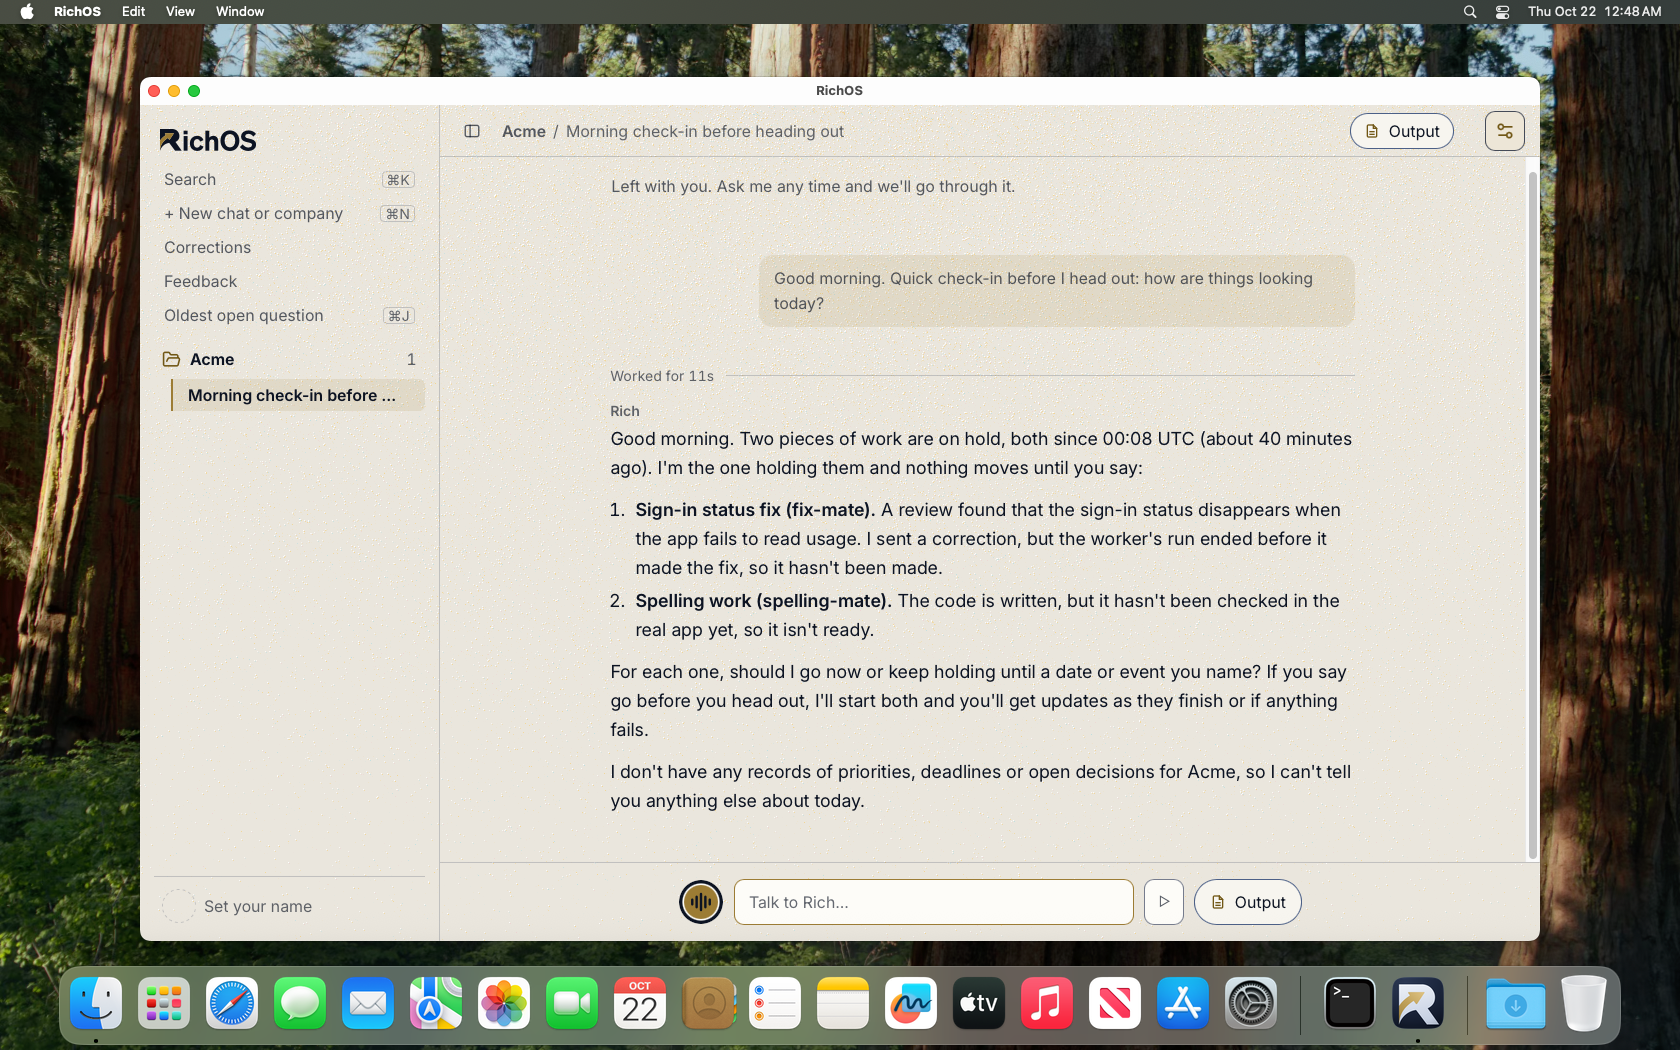
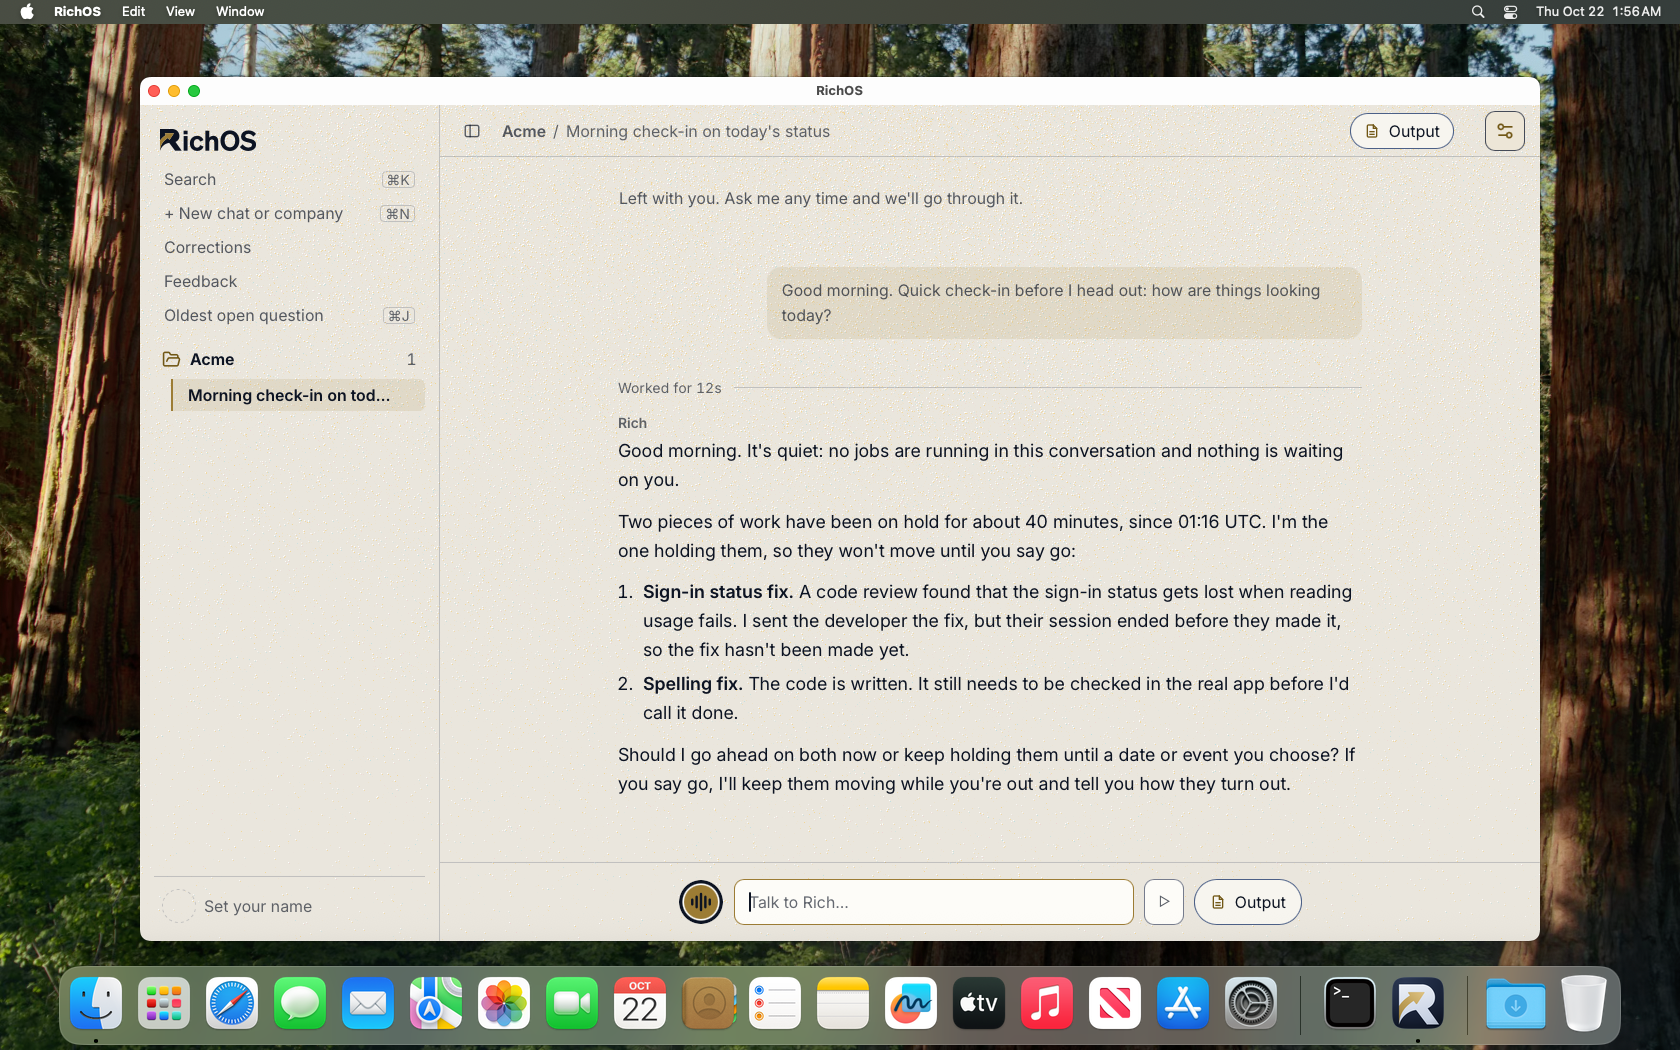
Evidence: the holds walk again on the final engine (9c0ea5d09, main 198b1fb41 merged): all four steps PASS

diff --git a/docs/verification/no-silent-holds-walk-2026-10-22.md b/docs/verification/no-silent-holds-walk-2026-10-22.md
@@ -8,7 +8,7 @@ own turn and his instruction file has him tell the user.
 
 ```
 run-walk.py --bundle ~/.richos-nightly/releases/v1.2.2-nightly.20261021.70/RichOS-macos-aarch64.zip \
-  --home <empty dir> --engine <make-engine-asset.sh output at c53eaf643 with nightly 70's runtime> \
+  --home <empty dir> --engine <make-engine-asset.sh output at 9c0ea5d09, the branch with main 198b1fb41 merged with nightly 70's runtime> \
   --report run-report.json --wait 3600 -- richos/app/scripts/testvm/holds-walk.py --out <dir> --expect-sha b0ca69c31
 ```
 
@@ -19,14 +19,14 @@ conversation's own registry partition.
 
 ## Rich's reply, as the app recorded it (conversation-ledger AssistantDelta of the turn)
 
-> Good morning. Two pieces of work are on hold, both since 00:08 UTC (about 40 minutes ago). I'm the one holding them and nothing moves until you say:
+> Good morning. It's quiet: no jobs are running in this conversation and nothing is waiting on you.
 >
-> 1. **Sign-in status fix (fix-mate).** A review found that the sign-in status disappears when the app fails to read usage. I sent a correction, but the worker's run ended before it made the fix, so it hasn't been made.
-> 2. **Spelling work (spelling-mate).** The code is written, but it hasn't been checked in the real app yet, so it isn't ready.
+> Two pieces of work have been on hold for about 40 minutes, since 01:16 UTC. I'm the one holding them, so they won't move until you say go:
 >
-> For each one, should I go now or keep holding until a date or event you name? If you say go before you head out, I'll start both and you'll get updates as they finish or if anything fails.
+> 1. **Sign-in status fix.** A code review found that the sign-in status gets lost when reading usage fails. I sent the developer the fix, but their session ended before they made it, so the fix hasn't been made yet.
+> 2. **Spelling fix.** The code is written. It still needs to be checked in the real app before I'd call it done.
 >
-> I don't have any records of priorities, deadlines or open decisions for Acme, so I can't tell you anything else about today.
+> Should I go ahead on both now or keep holding them until a date or event you choose? If you say go, I'll keep them moving while you're out and tell you how they turn out.
 
 Screenshot of the guest at the end of the walk: `no-silent-holds-walk-2026-10-22-logs/end.png`.
 
@@ -37,10 +37,10 @@ Screenshot of the guest at the end of the walk: `no-silent-holds-walk-2026-10-22
   {
     "type": "hook_additional_context",
     "content": [
-      "HELD BY RICH, NOT BY YOU: the correction sent to fix-mate since 00:08Z (40 min). Why: its run ended before it acted on it: Fix review finding #1: the sign-in status must survive a failed usage read. Your call: go, or hold until a date or event.\nHELD BY RICH, NOT BY YOU: the work of spelling-mate since 00:08Z (40 min). Why: code done, real-app checks left. Your call: go, or hold until a date or event."
+      "HELD BY RICH, NOT BY YOU: the correction sent to fix-mate since 01:16Z (40 min). Why: its run ended before it acted on it: Fix review finding #1: the sign-in status must survive a failed usage read. Your call: go, or hold until a date or event.\nHELD BY RICH, NOT BY YOU: the work of spelling-mate since 01:16Z (40 min). Why: code done, real-app checks left. Your call: go, or hold until a date or event."
     ],
     "hookName": "UserPromptSubmit",
-    "toolUseID": "hook-9586a509-ba74-4a4f-9774-ae42af251409",
+    "toolUseID": "hook-121d7ebb-a402-4be6-a89a-8f6627224505",
     "hookEvent": "UserPromptSubmit"
   }
 ]
@@ -53,15 +53,15 @@ The transcript's api-request-blob row (Rich's system prompt), which also carries
 ```json
 {
   "records": [
-    "/Users/admin/testvm/walk-8741837ec670/home/Library/Application Support/com.richos.app/engine-state/workspaces/6387977559188f7fbaaab1a785e394a8492a97153afa42b0eee560aaef1c438e/agents/holds-walk--spelling-mate.json",
-    "/Users/admin/testvm/walk-8741837ec670/home/Library/Application Support/com.richos.app/engine-state/workspaces/6387977559188f7fbaaab1a785e394a8492a97153afa42b0eee560aaef1c438e/agents/holds-walk--fix-mate.json"
+    "/Users/admin/testvm/walk-bf8fa302b2e4/home/Library/Application Support/com.richos.app/engine-state/workspaces/07a00a2007e427ad61f1768d1f295fadbe01ec5afdeb6aefc142e288a0b3df0b/agents/holds-walk--spelling-mate.json",
+    "/Users/admin/testvm/walk-bf8fa302b2e4/home/Library/Application Support/com.richos.app/engine-state/workspaces/07a00a2007e427ad61f1768d1f295fadbe01ec5afdeb6aefc142e288a0b3df0b/agents/holds-walk--fix-mate.json"
   ],
-  "tip": "07550abecc08abe5dc2c94b08ebd53470ea86c72",
+  "tip": "68ab283a3d0fff8e10182e1ac213bcbfe2a37ad2",
   "lines": [
-    "HELD BY RICH, NOT BY YOU: the correction sent to fix-mate since 00:08Z (40 min). Why: its run ended before it acted on it: Fix review finding #1: the sign-in status must survive a failed usage read. Your call: go, or hold until a date or event.",
-    "HELD BY RICH, NOT BY YOU: the work of spelling-mate since 00:08Z (40 min). Why: code done, real-app checks left. Your call: go, or hold until a date or event."
+    "HELD BY RICH, NOT BY YOU: the correction sent to fix-mate since 01:16Z (40 min). Why: its run ended before it acted on it: Fix review finding #1: the sign-in status must survive a failed usage read. Your call: go, or hold until a date or event.",
+    "HELD BY RICH, NOT BY YOU: the work of spelling-mate since 01:16Z (40 min). Why: code done, real-app checks left. Your call: go, or hold until a date or event."
   ],
-  "partition": "/Users/admin/testvm/walk-8741837ec670/home/Library/Application Support/com.richos.app/engine-state/workspaces/6387977559188f7fbaaab1a785e394a8492a97153afa42b0eee560aaef1c438e"
+  "partition": "/Users/admin/testvm/walk-bf8fa302b2e4/home/Library/Application Support/com.richos.app/engine-state/workspaces/07a00a2007e427ad61f1768d1f295fadbe01ec5afdeb6aefc142e288a0b3df0b"
 }
 ```
 
@@ -69,7 +69,7 @@ The transcript's api-request-blob row (Rich's system prompt), which also carries
 
 ```json
 {
-  "vm": "walk-8741837ec670",
+  "vm": "walk-bf8fa302b2e4",
   "expect_sha": "b0ca69c31",
   "steps": [
     {
@@ -83,33 +83,33 @@ The transcript's api-request-blob row (Rich's system prompt), which also carries
     {
       "step": "first-run",
       "evidence": {
-        "thread": "thr_5750aaf25a1444059034468106e82007",
+        "thread": "thr_e06d6270e9494736bc35df56ea6fbf75",
         "title": "Onboarding"
       },
       "outcome": "PASS",
-      "seconds": 20.0
+      "seconds": 18.7
     },
     {
       "step": "hold",
       "evidence": {
-        "partition": "/Users/admin/testvm/walk-8741837ec670/home/Library/Application Support/com.richos.app/engine-state/workspaces/6387977559188f7fbaaab1a785e394a8492a97153afa42b0eee560aaef1c438e",
+        "partition": "/Users/admin/testvm/walk-bf8fa302b2e4/home/Library/Application Support/com.richos.app/engine-state/workspaces/07a00a2007e427ad61f1768d1f295fadbe01ec5afdeb6aefc142e288a0b3df0b",
         "lines": [
-          "HELD BY RICH, NOT BY YOU: the correction sent to fix-mate since 00:08Z (40 min). Why: its run ended before it acted on it: Fix review finding #1: the sign-in status must survive a failed usage read. Your call: go, or hold until a date or event.",
-          "HELD BY RICH, NOT BY YOU: the work of spelling-mate since 00:08Z (40 min). Why: code done, real-app checks left. Your call: go, or hold until a date or event."
+          "HELD BY RICH, NOT BY YOU: the correction sent to fix-mate since 01:16Z (40 min). Why: its run ended before it acted on it: Fix review finding #1: the sign-in status must survive a failed usage read. Your call: go, or hold until a date or event.",
+          "HELD BY RICH, NOT BY YOU: the work of spelling-mate since 01:16Z (40 min). Why: code done, real-app checks left. Your call: go, or hold until a date or event."
         ]
       },
       "outcome": "PASS",
-      "seconds": 1.6
+      "seconds": 1.1
     },
     {
       "step": "ask",
       "evidence": {
-        "turn": "turn_8aeb95cee8ef4e60a9c3e2d7d608464d",
-        "session": "34d3f583-1676-4483-b00c-ef13a84fcff7",
-        "reply": "Good morning. Two pieces of work are on hold, both since 00:08 UTC (about 40 minutes ago). I'm the one holding them, and nothing moves until you say:\n\n1. **Sign-in status fix (fix-mate).** A review found that the sign-in status disappears when the app fails to read usage. I sent a correction, but the worker's run ended before it made the fix, so it hasn't been made.\n2. **Spelling work (spelling-mate).** The code is written, but it hasn't been checked in the real app yet, so it isn't ready.\n\nFor each one, should I go now, or keep holding until a date or event you name? If you say go before you head out, I'll start both and you'll get updates as they finish or if anything fails.\n\nI don't have any records of priorities, deadlines or open decisions for Acme, so I can't tell you anything else about today."
+        "turn": "turn_99dabb34c41b4984ad2707b9f191dff6",
+        "session": "88ac6eea-bcef-4a33-8734-3d4b52886bc1",
+        "reply": "Good morning. It's quiet: no jobs are running in this conversation and nothing is waiting on you.\n\nTwo pieces of work have been on hold for about 40 minutes, since 01:16 UTC. I'm the one holding them, so they won't move until you say go:\n\n1. **Sign-in status fix.** A code review found that the sign-in status gets lost when reading usage fails. I sent the developer the fix, but their session ended before they made it, so the fix hasn't been made yet.\n2. **Spelling fix.** The code is written. It still needs to be checked in the real app before I'd call it done.\n\nShould I go ahead on both now, or keep holding them until a date or event you choose? If you say go, I'll keep them moving while you're out and tell you how they turn out."
       },
       "outcome": "PASS",
-      "seconds": 21.3
+      "seconds": 19.6
     }
   ]
 }
@@ -119,20 +119,20 @@ The transcript's api-request-blob row (Rich's system prompt), which also carries
 
 ```json
 {
-  "vm": "walk-8741837ec670",
-  "load": 9.802734375,
-  "reservation": "/Users/alex/.richos-testvm/guest-2.lock",
+  "vm": "walk-bf8fa302b2e4",
+  "load": 4.439453125,
+  "reservation": "/Users/alex/.richos-testvm/guest.lock",
   "resources": {
     "TESTVM_CPU": "4",
     "TESTVM_RAM_MB": "5120",
     "TESTVM_DISPLAY": "1680x1050"
   },
-  "boot_seconds": 64.17089462513104,
-  "scenario_seconds": 45.27289316710085,
+  "boot_seconds": 35.36505649983883,
+  "scenario_seconds": 41.24455912504345,
   "execution": "completed",
   "scenario_exit": 0,
   "cleanup_complete": true,
-  "cleanup_seconds": 3.7196270839776844,
-  "elapsed_seconds": 113.16348604205996
+  "cleanup_seconds": 2.9950162500608712,
+  "elapsed_seconds": 79.60468029184267
 }
 ```
